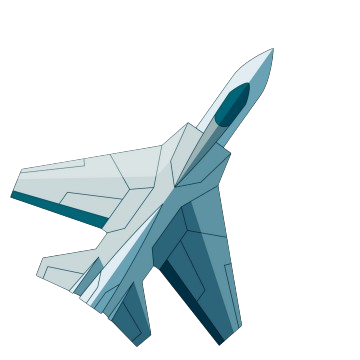
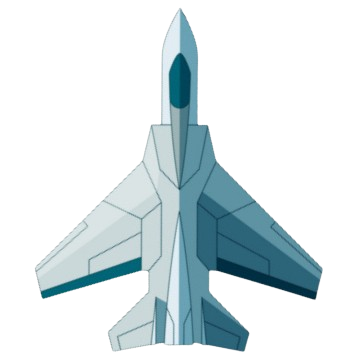
Plane follows the users' click

diff --git a/Assets/Src/SceneScripts/Overworld/RotateTowardsClick.cs b/Assets/Src/SceneScripts/Overworld/RotateTowardsClick.cs
@@ -1,0 +1,25 @@
+using System.Collections;
+using System.Collections.Generic;
+using UnityEngine;
+
+public class RotateTowardsClick : MonoBehaviour
+{
+    private void Update()
+    {
+        if (Input.GetMouseButtonDown(0))
+        {
+            // Get the mouse position in world space
+            Vector3 mousePosition = Camera.main.ScreenToWorldPoint(Input.mousePosition);
+            mousePosition.z = 0; // Set z to 0 since we're working in 2D
+
+            // Get the direction from the sprite to the mouse position
+            Vector2 direction = (mousePosition - transform.position).normalized;
+
+            // Calculate the angle in degrees
+            float angle = Mathf.Atan2(direction.y, direction.x) * Mathf.Rad2Deg;
+
+            // Apply the rotation
+            transform.rotation = Quaternion.Euler(new Vector3(0, 0, angle));
+        }
+    }
+}
